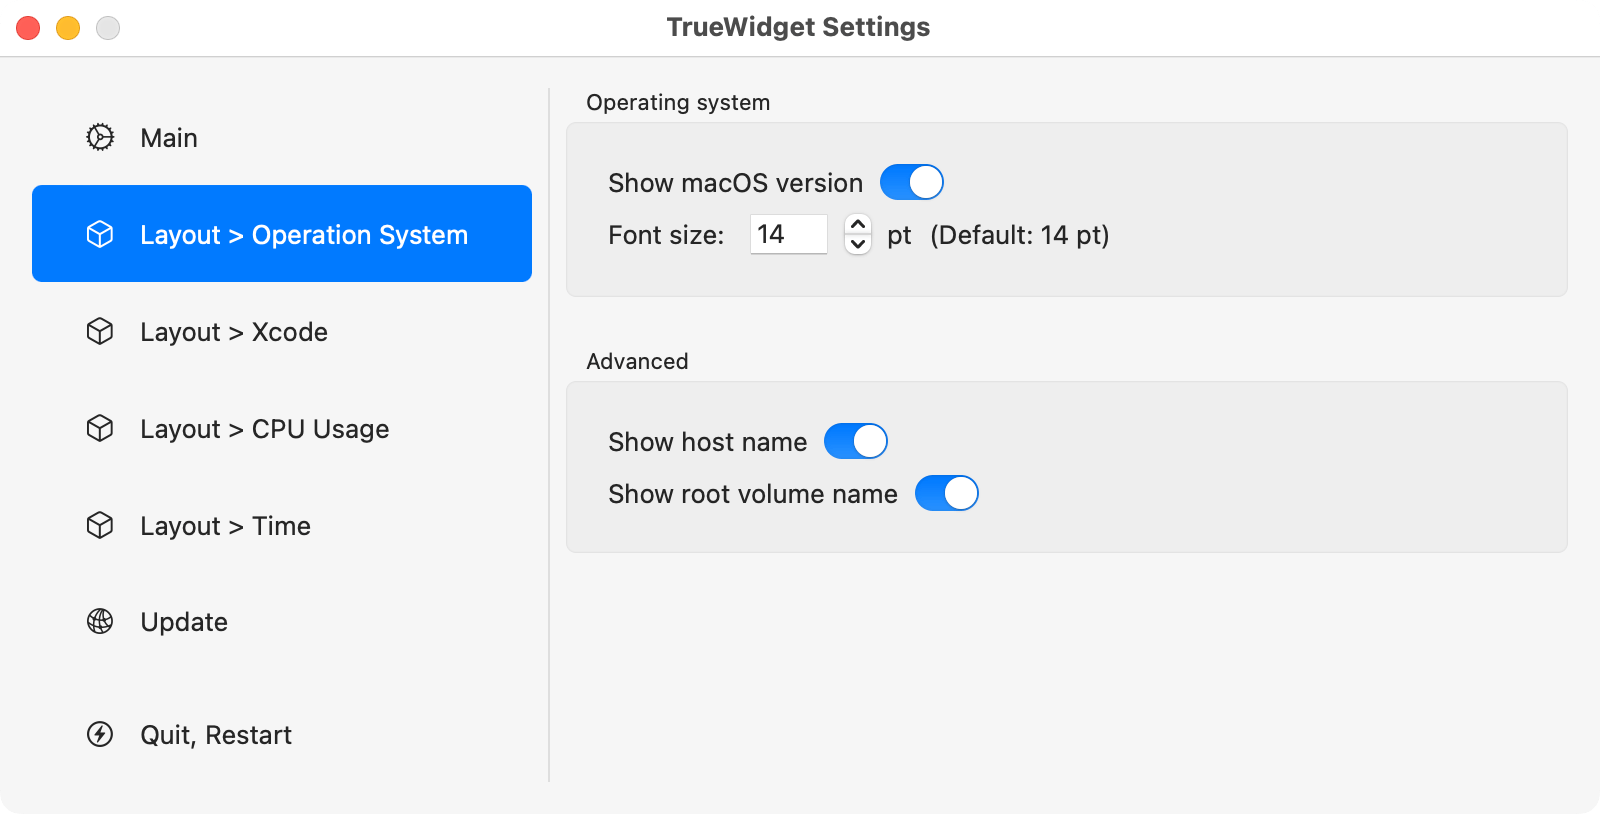
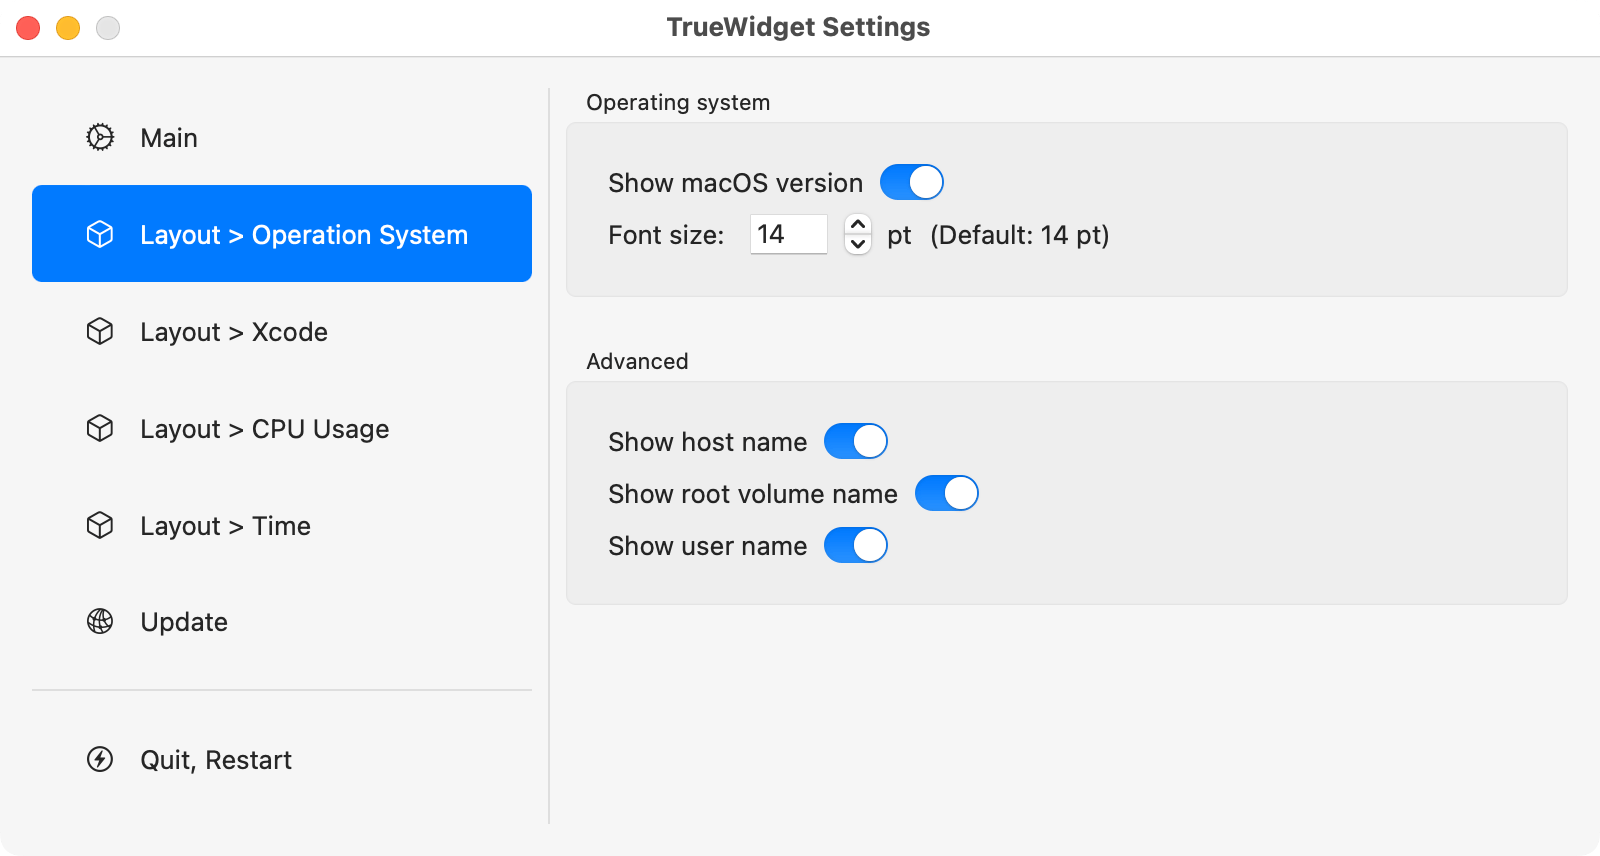
Update public

diff --git a/sites/truewidget/public/docs/releasenotes/index.html b/sites/truewidget/public/docs/releasenotes/index.html
@@ -19,22 +19,22 @@
 <link rel="icon" type="image/png" href="/favicons/android-192x192.png" sizes="192x192">
 
 <title>Release notes | TrueWidget</title>
-<meta name="description" content="TrueWidget 1.2.0 📦 Download 📅 Release date Feb 4, 2022 🐛 Bug Fixes Fixed an issue that Open at login option does not work properly. ✨ New Features Added option to show time of other time zones. Added option to show the root volume name. TrueWidget 1.1.0 📦 Download 📅 Release date Jan 11, 2022 ✨ New Features Added option to show local date. Added option to show processes using CPU.">
+<meta name="description" content="TrueWidget 1.3.0 📦 Download 📅 Release date May 2, 2023 ✨ New Features Added option to show user name. ⚡ Improvements Supported the security update version in macOS version display. Sparkle Framework has been updated. TrueWidget 1.2.0 📦 Download 📅 Release date Feb 4, 2022 🐛 Bug Fixes Fixed an issue that Open at login option does not work properly. ✨ New Features Added option to show time of other time zones.">
 <meta property="og:title" content="Release notes" />
-<meta property="og:description" content="TrueWidget 1.2.0 📦 Download 📅 Release date Feb 4, 2022 🐛 Bug Fixes Fixed an issue that Open at login option does not work properly. ✨ New Features Added option to show time of other time zones. Added option to show the root volume name. TrueWidget 1.1.0 📦 Download 📅 Release date Jan 11, 2022 ✨ New Features Added option to show local date. Added option to show processes using CPU." />
+<meta property="og:description" content="TrueWidget 1.3.0 📦 Download 📅 Release date May 2, 2023 ✨ New Features Added option to show user name. ⚡ Improvements Supported the security update version in macOS version display. Sparkle Framework has been updated. TrueWidget 1.2.0 📦 Download 📅 Release date Feb 4, 2022 🐛 Bug Fixes Fixed an issue that Open at login option does not work properly. ✨ New Features Added option to show time of other time zones." />
 <meta property="og:type" content="article" />
 <meta property="og:url" content="/docs/releasenotes/" /><meta property="og:image" content="https://truewidget.pqrs.org/images/logo.png"/><meta property="article:section" content="docs" />
 
 <meta property="og:site_name" content="TrueWidget" />
 <meta itemprop="name" content="Release notes">
-<meta itemprop="description" content="TrueWidget 1.2.0 📦 Download 📅 Release date Feb 4, 2022 🐛 Bug Fixes Fixed an issue that Open at login option does not work properly. ✨ New Features Added option to show time of other time zones. Added option to show the root volume name. TrueWidget 1.1.0 📦 Download 📅 Release date Jan 11, 2022 ✨ New Features Added option to show local date. Added option to show processes using CPU.">
+<meta itemprop="description" content="TrueWidget 1.3.0 📦 Download 📅 Release date May 2, 2023 ✨ New Features Added option to show user name. ⚡ Improvements Supported the security update version in macOS version display. Sparkle Framework has been updated. TrueWidget 1.2.0 📦 Download 📅 Release date Feb 4, 2022 🐛 Bug Fixes Fixed an issue that Open at login option does not work properly. ✨ New Features Added option to show time of other time zones.">
 
-<meta itemprop="wordCount" content="93"><meta itemprop="image" content="https://truewidget.pqrs.org/images/logo.png"/>
+<meta itemprop="wordCount" content="128"><meta itemprop="image" content="https://truewidget.pqrs.org/images/logo.png"/>
 <meta itemprop="keywords" content="" /><meta name="twitter:card" content="summary_large_image"/>
 <meta name="twitter:image" content="https://truewidget.pqrs.org/images/logo.png"/>
 
 <meta name="twitter:title" content="Release notes"/>
-<meta name="twitter:description" content="TrueWidget 1.2.0 📦 Download 📅 Release date Feb 4, 2022 🐛 Bug Fixes Fixed an issue that Open at login option does not work properly. ✨ New Features Added option to show time of other time zones. Added option to show the root volume name. TrueWidget 1.1.0 📦 Download 📅 Release date Jan 11, 2022 ✨ New Features Added option to show local date. Added option to show processes using CPU."/>
+<meta name="twitter:description" content="TrueWidget 1.3.0 📦 Download 📅 Release date May 2, 2023 ✨ New Features Added option to show user name. ⚡ Improvements Supported the security update version in macOS version display. Sparkle Framework has been updated. TrueWidget 1.2.0 📦 Download 📅 Release date Feb 4, 2022 🐛 Bug Fixes Fixed an issue that Open at login option does not work properly. ✨ New Features Added option to show time of other time zones."/>
 
 
 
@@ -82,7 +82,7 @@ if (!doNotTrack) {
     aria-label="Search this site…"
     autocomplete="off"
     
-    data-offline-search-index-json-src="/offline-search-index.8be26e8dcc7ef47e1c5e56a6f65ece36.json"
+    data-offline-search-index-json-src="/offline-search-index.1881bf910d4f34e9b638028c50305361.json"
     data-offline-search-base-href="/"
     data-offline-search-max-results="25"
   >
@@ -107,7 +107,7 @@ if (!doNotTrack) {
     aria-label="Search this site…"
     autocomplete="off"
     
-    data-offline-search-index-json-src="/offline-search-index.8be26e8dcc7ef47e1c5e56a6f65ece36.json"
+    data-offline-search-index-json-src="/offline-search-index.1881bf910d4f34e9b638028c50305361.json"
     data-offline-search-base-href="/"
     data-offline-search-max-results="25"
   >
@@ -202,6 +202,7 @@ if (!doNotTrack) {
 
 <nav id="TableOfContents">
   <ul>
+    <li><a href="#truewidget-130">TrueWidget 1.3.0</a></li>
     <li><a href="#truewidget-120">TrueWidget 1.2.0</a></li>
     <li><a href="#truewidget-110">TrueWidget 1.1.0</a></li>
     <li><a href="#truewidget-100">TrueWidget 1.0.0</a></li>
@@ -264,7 +265,42 @@ if (!doNotTrack) {
 
 		
 	</header>    
-	<h2 id="truewidget-120">TrueWidget 1.2.0</h2>
+	<h2 id="truewidget-130">TrueWidget 1.3.0</h2>
+<ul>
+<li><a href="https://github.com/pqrs-org/TrueWidget/releases/download/v1.3.0/TrueWidget-1.3.0.dmg">📦 Download</a></li>
+<li>📅 Release date
+<ul>
+<li>May 2, 2023</li>
+</ul>
+</li>
+<li>✨ New Features
+<ul>
+<li>Added option to show user name.</li>
+</ul>
+</li>
+<li>⚡ Improvements
+<ul>
+<li>Supported the security update version in macOS version display.
+
+        
+        
+        
+          
+        
+        
+        <figure>
+          <img
+            src="/docs/releasenotes/images/v1.3.0@2x.png"
+            alt="v1.3.0@2x.png"
+            style="width: 272px"
+          />
+        </figure>
+</li>
+<li>Sparkle Framework has been updated.</li>
+</ul>
+</li>
+</ul>
+<h2 id="truewidget-120">TrueWidget 1.2.0</h2>
 <ul>
 <li><a href="https://github.com/pqrs-org/TrueWidget/releases/download/v1.2.0/TrueWidget-1.2.0.dmg">📦 Download</a></li>
 <li>📅 Release date

diff --git a/sites/truewidget/public/index.html b/sites/truewidget/public/index.html
@@ -78,7 +78,7 @@ if (!doNotTrack) {
     aria-label="Search this site…"
     autocomplete="off"
     
-    data-offline-search-index-json-src="/offline-search-index.8be26e8dcc7ef47e1c5e56a6f65ece36.json"
+    data-offline-search-index-json-src="/offline-search-index.1881bf910d4f34e9b638028c50305361.json"
     data-offline-search-base-href="/"
     data-offline-search-max-results="25"
   >
@@ -118,10 +118,10 @@ if (!doNotTrack) {
 <div class="mt-4">
   <div class="btn-group mx-2 my-2">
     <a
-      href="https://github.com/pqrs-org/TrueWidget/releases/download/v1.2.0/TrueWidget-1.2.0.dmg"
+      href="https://github.com/pqrs-org/TrueWidget/releases/download/v1.3.0/TrueWidget-1.3.0.dmg"
       class="btn btn-primary btn-lg px-4"
     >
-      Download v1.2.0
+      Download v1.3.0
       <i class="fas fa-download ml-1"></i>
     </a>
   </div>
@@ -210,7 +210,8 @@ if (!doNotTrack) {
       resolution.<br />
     </div>
     <div class="my-2">
-      ✨ Supports multi-display environments and allows control over which screen is used for display.
+      ✨ Supports multi-display environments and allows control over which
+      screen is used for display.
     </div>
   </div>
   <div class="my-4">

diff --git a/sites/truewidget/public/docs/configuration/hide-menu-bar-icon/index.html b/sites/truewidget/public/docs/configuration/hide-menu-bar-icon/index.html
@@ -86,7 +86,7 @@ if (!doNotTrack) {
     aria-label="Search this site…"
     autocomplete="off"
     
-    data-offline-search-index-json-src="/offline-search-index.8be26e8dcc7ef47e1c5e56a6f65ece36.json"
+    data-offline-search-index-json-src="/offline-search-index.1881bf910d4f34e9b638028c50305361.json"
     data-offline-search-base-href="/"
     data-offline-search-max-results="25"
   >
@@ -111,7 +111,7 @@ if (!doNotTrack) {
     aria-label="Search this site…"
     autocomplete="off"
     
-    data-offline-search-index-json-src="/offline-search-index.8be26e8dcc7ef47e1c5e56a6f65ece36.json"
+    data-offline-search-index-json-src="/offline-search-index.1881bf910d4f34e9b638028c50305361.json"
     data-offline-search-base-href="/"
     data-offline-search-max-results="25"
   >

diff --git a/sites/truewidget/public/docs/configuration/index.html b/sites/truewidget/public/docs/configuration/index.html
@@ -78,7 +78,7 @@ if (!doNotTrack) {
     aria-label="Search this site…"
     autocomplete="off"
     
-    data-offline-search-index-json-src="/offline-search-index.8be26e8dcc7ef47e1c5e56a6f65ece36.json"
+    data-offline-search-index-json-src="/offline-search-index.1881bf910d4f34e9b638028c50305361.json"
     data-offline-search-base-href="/"
     data-offline-search-max-results="25"
   >
@@ -103,7 +103,7 @@ if (!doNotTrack) {
     aria-label="Search this site…"
     autocomplete="off"
     
-    data-offline-search-index-json-src="/offline-search-index.8be26e8dcc7ef47e1c5e56a6f65ece36.json"
+    data-offline-search-index-json-src="/offline-search-index.1881bf910d4f34e9b638028c50305361.json"
     data-offline-search-base-href="/"
     data-offline-search-max-results="25"
   >

diff --git a/sites/truewidget/public/docs/configuration/layout-configuration/index.html b/sites/truewidget/public/docs/configuration/layout-configuration/index.html
@@ -90,7 +90,7 @@ if (!doNotTrack) {
     aria-label="Search this site…"
     autocomplete="off"
     
-    data-offline-search-index-json-src="/offline-search-index.8be26e8dcc7ef47e1c5e56a6f65ece36.json"
+    data-offline-search-index-json-src="/offline-search-index.1881bf910d4f34e9b638028c50305361.json"
     data-offline-search-base-href="/"
     data-offline-search-max-results="25"
   >
@@ -115,7 +115,7 @@ if (!doNotTrack) {
     aria-label="Search this site…"
     autocomplete="off"
     
-    data-offline-search-index-json-src="/offline-search-index.8be26e8dcc7ef47e1c5e56a6f65ece36.json"
+    data-offline-search-index-json-src="/offline-search-index.1881bf910d4f34e9b638028c50305361.json"
     data-offline-search-base-href="/"
     data-offline-search-max-results="25"
   >

diff --git a/sites/truewidget/public/docs/configuration/open-at-login/index.html b/sites/truewidget/public/docs/configuration/open-at-login/index.html
@@ -86,7 +86,7 @@ if (!doNotTrack) {
     aria-label="Search this site…"
     autocomplete="off"
     
-    data-offline-search-index-json-src="/offline-search-index.8be26e8dcc7ef47e1c5e56a6f65ece36.json"
+    data-offline-search-index-json-src="/offline-search-index.1881bf910d4f34e9b638028c50305361.json"
     data-offline-search-base-href="/"
     data-offline-search-max-results="25"
   >
@@ -111,7 +111,7 @@ if (!doNotTrack) {
     aria-label="Search this site…"
     autocomplete="off"
     
-    data-offline-search-index-json-src="/offline-search-index.8be26e8dcc7ef47e1c5e56a6f65ece36.json"
+    data-offline-search-index-json-src="/offline-search-index.1881bf910d4f34e9b638028c50305361.json"
     data-offline-search-base-href="/"
     data-offline-search-max-results="25"
   >

diff --git a/sites/truewidget/public/docs/configuration/open-settings/index.html b/sites/truewidget/public/docs/configuration/open-settings/index.html
@@ -82,7 +82,7 @@ if (!doNotTrack) {
     aria-label="Search this site…"
     autocomplete="off"
     
-    data-offline-search-index-json-src="/offline-search-index.8be26e8dcc7ef47e1c5e56a6f65ece36.json"
+    data-offline-search-index-json-src="/offline-search-index.1881bf910d4f34e9b638028c50305361.json"
     data-offline-search-base-href="/"
     data-offline-search-max-results="25"
   >
@@ -107,7 +107,7 @@ if (!doNotTrack) {
     aria-label="Search this site…"
     autocomplete="off"
     
-    data-offline-search-index-json-src="/offline-search-index.8be26e8dcc7ef47e1c5e56a6f65ece36.json"
+    data-offline-search-index-json-src="/offline-search-index.1881bf910d4f34e9b638028c50305361.json"
     data-offline-search-base-href="/"
     data-offline-search-max-results="25"
   >

diff --git a/sites/truewidget/public/docs/getting-started/index.html b/sites/truewidget/public/docs/getting-started/index.html
@@ -82,7 +82,7 @@ if (!doNotTrack) {
     aria-label="Search this site…"
     autocomplete="off"
     
-    data-offline-search-index-json-src="/offline-search-index.8be26e8dcc7ef47e1c5e56a6f65ece36.json"
+    data-offline-search-index-json-src="/offline-search-index.1881bf910d4f34e9b638028c50305361.json"
     data-offline-search-base-href="/"
     data-offline-search-max-results="25"
   >
@@ -107,7 +107,7 @@ if (!doNotTrack) {
     aria-label="Search this site…"
     autocomplete="off"
     
-    data-offline-search-index-json-src="/offline-search-index.8be26e8dcc7ef47e1c5e56a6f65ece36.json"
+    data-offline-search-index-json-src="/offline-search-index.1881bf910d4f34e9b638028c50305361.json"
     data-offline-search-base-href="/"
     data-offline-search-max-results="25"
   >

diff --git a/sites/truewidget/public/docs/help/donwload-older-versions/index.html b/sites/truewidget/public/docs/help/donwload-older-versions/index.html
@@ -82,7 +82,7 @@ if (!doNotTrack) {
     aria-label="Search this site…"
     autocomplete="off"
     
-    data-offline-search-index-json-src="/offline-search-index.8be26e8dcc7ef47e1c5e56a6f65ece36.json"
+    data-offline-search-index-json-src="/offline-search-index.1881bf910d4f34e9b638028c50305361.json"
     data-offline-search-base-href="/"
     data-offline-search-max-results="25"
   >
@@ -107,7 +107,7 @@ if (!doNotTrack) {
     aria-label="Search this site…"
     autocomplete="off"
     
-    data-offline-search-index-json-src="/offline-search-index.8be26e8dcc7ef47e1c5e56a6f65ece36.json"
+    data-offline-search-index-json-src="/offline-search-index.1881bf910d4f34e9b638028c50305361.json"
     data-offline-search-base-href="/"
     data-offline-search-max-results="25"
   >

diff --git a/sites/truewidget/public/docs/help/index.html b/sites/truewidget/public/docs/help/index.html
@@ -78,7 +78,7 @@ if (!doNotTrack) {
     aria-label="Search this site…"
     autocomplete="off"
     
-    data-offline-search-index-json-src="/offline-search-index.8be26e8dcc7ef47e1c5e56a6f65ece36.json"
+    data-offline-search-index-json-src="/offline-search-index.1881bf910d4f34e9b638028c50305361.json"
     data-offline-search-base-href="/"
     data-offline-search-max-results="25"
   >
@@ -103,7 +103,7 @@ if (!doNotTrack) {
     aria-label="Search this site…"
     autocomplete="off"
     
-    data-offline-search-index-json-src="/offline-search-index.8be26e8dcc7ef47e1c5e56a6f65ece36.json"
+    data-offline-search-index-json-src="/offline-search-index.1881bf910d4f34e9b638028c50305361.json"
     data-offline-search-base-href="/"
     data-offline-search-max-results="25"
   >

diff --git a/sites/truewidget/public/docs/help/quit/index.html b/sites/truewidget/public/docs/help/quit/index.html
@@ -98,7 +98,7 @@ if (!doNotTrack) {
     aria-label="Search this site…"
     autocomplete="off"
     
-    data-offline-search-index-json-src="/offline-search-index.8be26e8dcc7ef47e1c5e56a6f65ece36.json"
+    data-offline-search-index-json-src="/offline-search-index.1881bf910d4f34e9b638028c50305361.json"
     data-offline-search-base-href="/"
     data-offline-search-max-results="25"
   >
@@ -123,7 +123,7 @@ if (!doNotTrack) {
     aria-label="Search this site…"
     autocomplete="off"
     
-    data-offline-search-index-json-src="/offline-search-index.8be26e8dcc7ef47e1c5e56a6f65ece36.json"
+    data-offline-search-index-json-src="/offline-search-index.1881bf910d4f34e9b638028c50305361.json"
     data-offline-search-base-href="/"
     data-offline-search-max-results="25"
   >

diff --git a/sites/truewidget/public/docs/help/uninstall/index.html b/sites/truewidget/public/docs/help/uninstall/index.html
@@ -86,7 +86,7 @@ if (!doNotTrack) {
     aria-label="Search this site…"
     autocomplete="off"
     
-    data-offline-search-index-json-src="/offline-search-index.8be26e8dcc7ef47e1c5e56a6f65ece36.json"
+    data-offline-search-index-json-src="/offline-search-index.1881bf910d4f34e9b638028c50305361.json"
     data-offline-search-base-href="/"
     data-offline-search-max-results="25"
   >
@@ -111,7 +111,7 @@ if (!doNotTrack) {
     aria-label="Search this site…"
     autocomplete="off"
     
-    data-offline-search-index-json-src="/offline-search-index.8be26e8dcc7ef47e1c5e56a6f65ece36.json"
+    data-offline-search-index-json-src="/offline-search-index.1881bf910d4f34e9b638028c50305361.json"
     data-offline-search-base-href="/"
     data-offline-search-max-results="25"
   >
